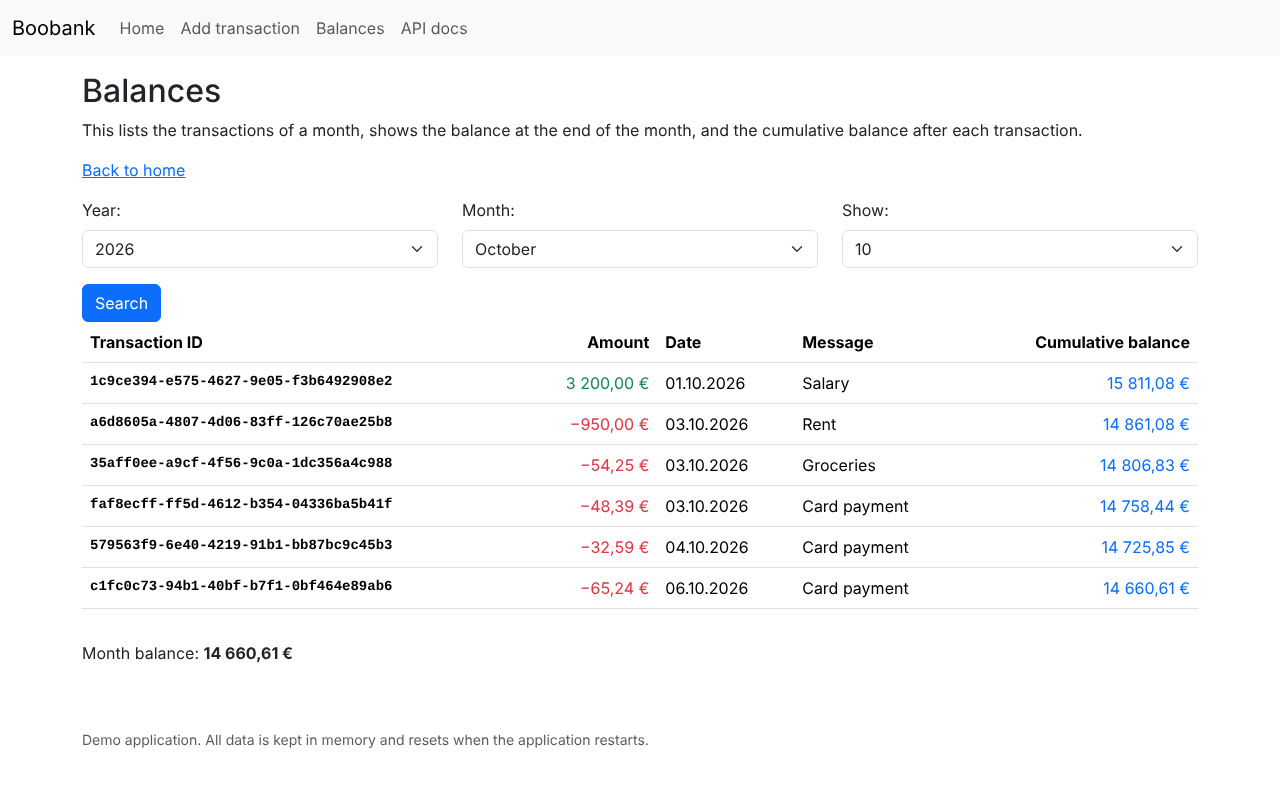
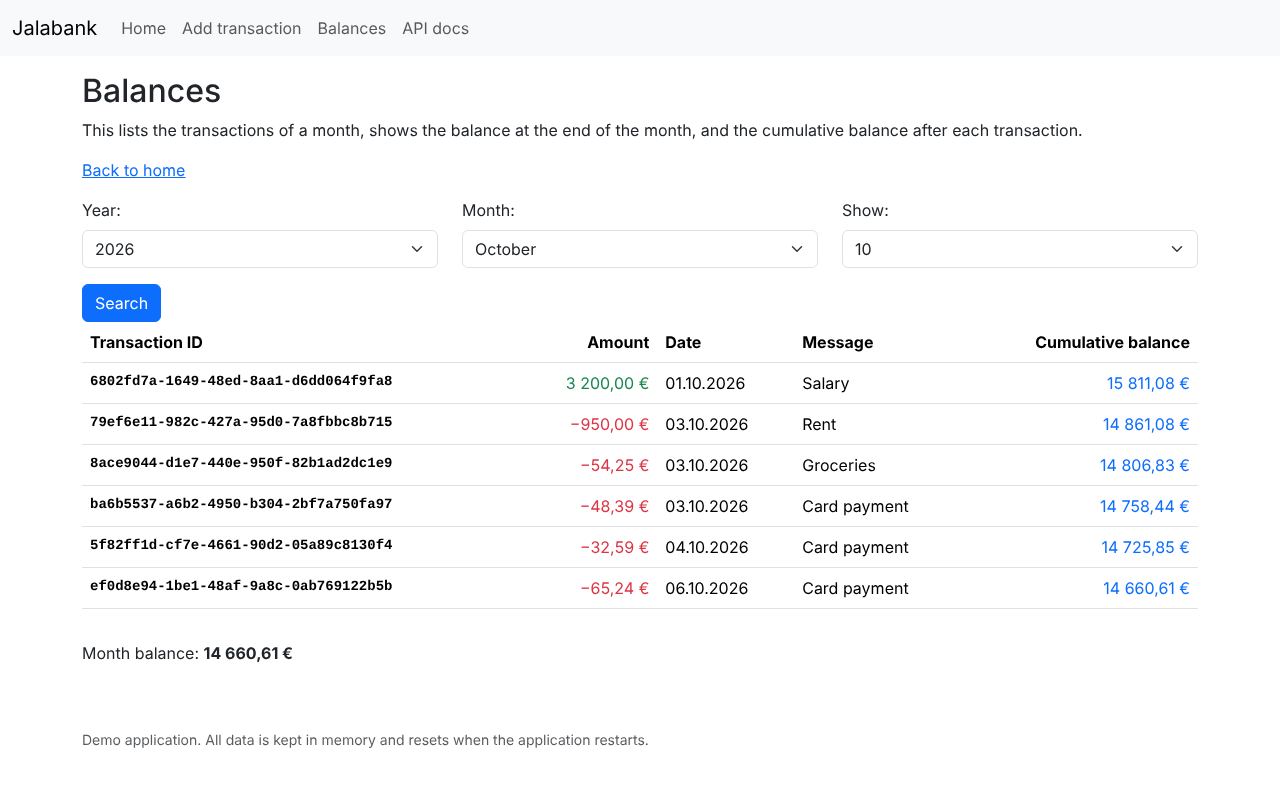
Rename Boobank to Jalabank
Rename the app, Java package (jussinet.jalabank), Maven artifact and jar,
Docker image and user, Render service name and README to Jalabank, and
refresh the screenshots.

diff --git a/release/src/main/resources/templates/fragments/navigation.html b/release/src/main/resources/templates/fragments/navigation.html
@@ -1,6 +1,6 @@
 <nav th:fragment="navigation" class="navbar navbar-expand-lg bg-body-tertiary">
     <div class="container-fluid">
-        <a class="navbar-brand" th:href="@{/}">Boobank</a>
+        <a class="navbar-brand" th:href="@{/}">Jalabank</a>
         <button class="navbar-toggler" type="button" data-bs-toggle="collapse" data-bs-target="#navbarSupportedContent"
             aria-controls="navbarSupportedContent" aria-expanded="false" aria-label="Toggle navigation">
             <span class="navbar-toggler-icon"></span>

diff --git a/release/src/main/resources/templates/fragments/header.html b/release/src/main/resources/templates/fragments/header.html
@@ -2,7 +2,7 @@
 <head th:fragment="head">
     <meta charset="UTF-8">
     <meta name="viewport" content="width=device-width, initial-scale=1.0">
-    <title>Boobank Application - Demo</title>
+    <title>Jalabank Application - Demo</title>
     <link th:href="@{/webjars/bootstrap/css/bootstrap.min.css}" rel="stylesheet">
     <script th:src="@{/webjars/bootstrap/js/bootstrap.bundle.min.js}" defer></script>
 </head>

diff --git a/release/src/main/java/jussinet/jalabank/release/service/TransactionService.java b/release/src/main/java/jussinet/jalabank/release/service/TransactionService.java
@@ -1,4 +1,4 @@
-package jussinet.boobank.release.service;
+package jussinet.jalabank.release.service;
 
 import java.math.BigDecimal;
 import java.time.LocalDate;
@@ -11,12 +11,12 @@ import java.util.UUID;
 
 import org.springframework.stereotype.Service;
 
-import jussinet.boobank.release.model.PageResult;
-import jussinet.boobank.release.model.SortDirection;
-import jussinet.boobank.release.model.StatementRow;
-import jussinet.boobank.release.model.Transaction;
-import jussinet.boobank.release.model.TransactionApiData;
-import jussinet.boobank.release.repository.TransactionRepository;
+import jussinet.jalabank.release.model.PageResult;
+import jussinet.jalabank.release.model.SortDirection;
+import jussinet.jalabank.release.model.StatementRow;
+import jussinet.jalabank.release.model.Transaction;
+import jussinet.jalabank.release.model.TransactionApiData;
+import jussinet.jalabank.release.repository.TransactionRepository;
 
 /**
  * Balance calculations over the in-memory transactions.

diff --git a/release/src/main/java/jussinet/jalabank/release/controller/HomeController.java b/release/src/main/java/jussinet/jalabank/release/controller/HomeController.java
@@ -1,4 +1,4 @@
-package jussinet.boobank.release.controller;
+package jussinet.jalabank.release.controller;
 
 import java.time.LocalDate;
 import java.time.Month;
@@ -19,11 +19,11 @@ import org.springframework.web.bind.annotation.RequestParam;
 import org.springframework.web.servlet.support.ServletUriComponentsBuilder;
 
 import jakarta.validation.Valid;
-import jussinet.boobank.release.model.PageResult;
-import jussinet.boobank.release.model.StatementRow;
-import jussinet.boobank.release.repository.CustomerRepository;
-import jussinet.boobank.release.service.TransactionService;
-import jussinet.boobank.release.web.TransactionForm;
+import jussinet.jalabank.release.model.PageResult;
+import jussinet.jalabank.release.model.StatementRow;
+import jussinet.jalabank.release.repository.CustomerRepository;
+import jussinet.jalabank.release.service.TransactionService;
+import jussinet.jalabank.release.web.TransactionForm;
 
 /**
  * Main controller (for the web pages)

diff --git a/release/src/test/java/jussinet/jalabank/release/service/TransactionServiceTest.java b/release/src/test/java/jussinet/jalabank/release/service/TransactionServiceTest.java
@@ -1,4 +1,4 @@
-package jussinet.boobank.release.service;
+package jussinet.jalabank.release.service;
 
 import static org.assertj.core.api.Assertions.assertThat;
 import static org.assertj.core.api.Assertions.assertThatThrownBy;
@@ -10,11 +10,11 @@ import java.time.YearMonth;
 import org.junit.jupiter.api.BeforeEach;
 import org.junit.jupiter.api.Test;
 
-import jussinet.boobank.release.model.PageResult;
-import jussinet.boobank.release.model.SortDirection;
-import jussinet.boobank.release.model.StatementRow;
-import jussinet.boobank.release.model.TransactionApiData;
-import jussinet.boobank.release.repository.TransactionRepository;
+import jussinet.jalabank.release.model.PageResult;
+import jussinet.jalabank.release.model.SortDirection;
+import jussinet.jalabank.release.model.StatementRow;
+import jussinet.jalabank.release.model.TransactionApiData;
+import jussinet.jalabank.release.repository.TransactionRepository;
 
 class TransactionServiceTest {
 

diff --git a/release/src/main/java/jussinet/jalabank/release/controller/TransactionController.java b/release/src/main/java/jussinet/jalabank/release/controller/TransactionController.java
@@ -1,4 +1,4 @@
-package jussinet.boobank.release.controller;
+package jussinet.jalabank.release.controller;
 
 import java.util.List;
 
@@ -9,9 +9,9 @@ import org.springframework.web.bind.annotation.RequestParam;
 import org.springframework.web.bind.annotation.RestController;
 import org.springframework.web.server.ResponseStatusException;
 
-import jussinet.boobank.release.model.SortDirection;
-import jussinet.boobank.release.model.TransactionApiData;
-import jussinet.boobank.release.service.TransactionService;
+import jussinet.jalabank.release.model.SortDirection;
+import jussinet.jalabank.release.model.TransactionApiData;
+import jussinet.jalabank.release.service.TransactionService;
 
 /**
  * Transaction API

diff --git a/release/src/main/java/jussinet/jalabank/release/service/DemoDataSeeder.java b/release/src/main/java/jussinet/jalabank/release/service/DemoDataSeeder.java
@@ -1,4 +1,4 @@
-package jussinet.boobank.release.service;
+package jussinet.jalabank.release.service;
 
 import java.math.BigDecimal;
 import java.math.RoundingMode;
@@ -9,8 +9,8 @@ import org.springframework.boot.ApplicationArguments;
 import org.springframework.boot.ApplicationRunner;
 import org.springframework.stereotype.Component;
 
-import jussinet.boobank.release.model.Customer;
-import jussinet.boobank.release.repository.CustomerRepository;
+import jussinet.jalabank.release.model.Customer;
+import jussinet.jalabank.release.repository.CustomerRepository;
 
 /**
  * Fills the in-memory store with demo data on startup. Everything resets when the application restarts.

diff --git a/release/src/main/java/jussinet/jalabank/release/controller/CustomerController.java b/release/src/main/java/jussinet/jalabank/release/controller/CustomerController.java
@@ -1,4 +1,4 @@
-package jussinet.boobank.release.controller;
+package jussinet.jalabank.release.controller;
 
 import java.util.List;
 
@@ -9,8 +9,8 @@ import org.springframework.web.bind.annotation.RequestMapping;
 import org.springframework.web.bind.annotation.RestController;
 import org.springframework.web.server.ResponseStatusException;
 
-import jussinet.boobank.release.model.Customer;
-import jussinet.boobank.release.repository.CustomerRepository;
+import jussinet.jalabank.release.model.Customer;
+import jussinet.jalabank.release.repository.CustomerRepository;
 
 /*
  * Customer API

diff --git a/release/src/test/java/jussinet/jalabank/release/ReleaseApplicationTests.java b/release/src/test/java/jussinet/jalabank/release/ReleaseApplicationTests.java
@@ -1,4 +1,4 @@
-package jussinet.boobank.release;
+package jussinet.jalabank.release;
 
 import static org.assertj.core.api.Assertions.assertThat;
 
@@ -12,7 +12,7 @@ import org.springframework.http.HttpStatus;
 import org.springframework.test.annotation.DirtiesContext;
 import org.springframework.test.web.servlet.assertj.MockMvcTester;
 
-import jussinet.boobank.release.service.TransactionService;
+import jussinet.jalabank.release.service.TransactionService;
 
 @SpringBootTest
 @AutoConfigureMockMvc

diff --git a/release/src/main/java/jussinet/jalabank/release/repository/CustomerRepository.java b/release/src/main/java/jussinet/jalabank/release/repository/CustomerRepository.java
@@ -1,4 +1,4 @@
-package jussinet.boobank.release.repository;
+package jussinet.jalabank.release.repository;
 
 import java.util.List;
 import java.util.Map;
@@ -7,7 +7,7 @@ import java.util.concurrent.ConcurrentSkipListMap;
 
 import org.springframework.stereotype.Repository;
 
-import jussinet.boobank.release.model.Customer;
+import jussinet.jalabank.release.model.Customer;
 
 /**
  * In-memory customer store. Contents live only as long as the application runs.

diff --git a/release/src/main/java/jussinet/jalabank/release/repository/TransactionRepository.java b/release/src/main/java/jussinet/jalabank/release/repository/TransactionRepository.java
@@ -1,4 +1,4 @@
-package jussinet.boobank.release.repository;
+package jussinet.jalabank.release.repository;
 
 import java.util.ArrayList;
 import java.util.Comparator;
@@ -6,7 +6,7 @@ import java.util.List;
 
 import org.springframework.stereotype.Repository;
 
-import jussinet.boobank.release.model.Transaction;
+import jussinet.jalabank.release.model.Transaction;
 
 /**
  * In-memory transaction store. Contents live only as long as the application runs.

diff --git a/release/src/main/java/jussinet/jalabank/release/ReleaseApplication.java b/release/src/main/java/jussinet/jalabank/release/ReleaseApplication.java
@@ -1,4 +1,4 @@
-package jussinet.boobank.release;
+package jussinet.jalabank.release;
 
 import org.springframework.boot.SpringApplication;
 import org.springframework.boot.autoconfigure.SpringBootApplication;
